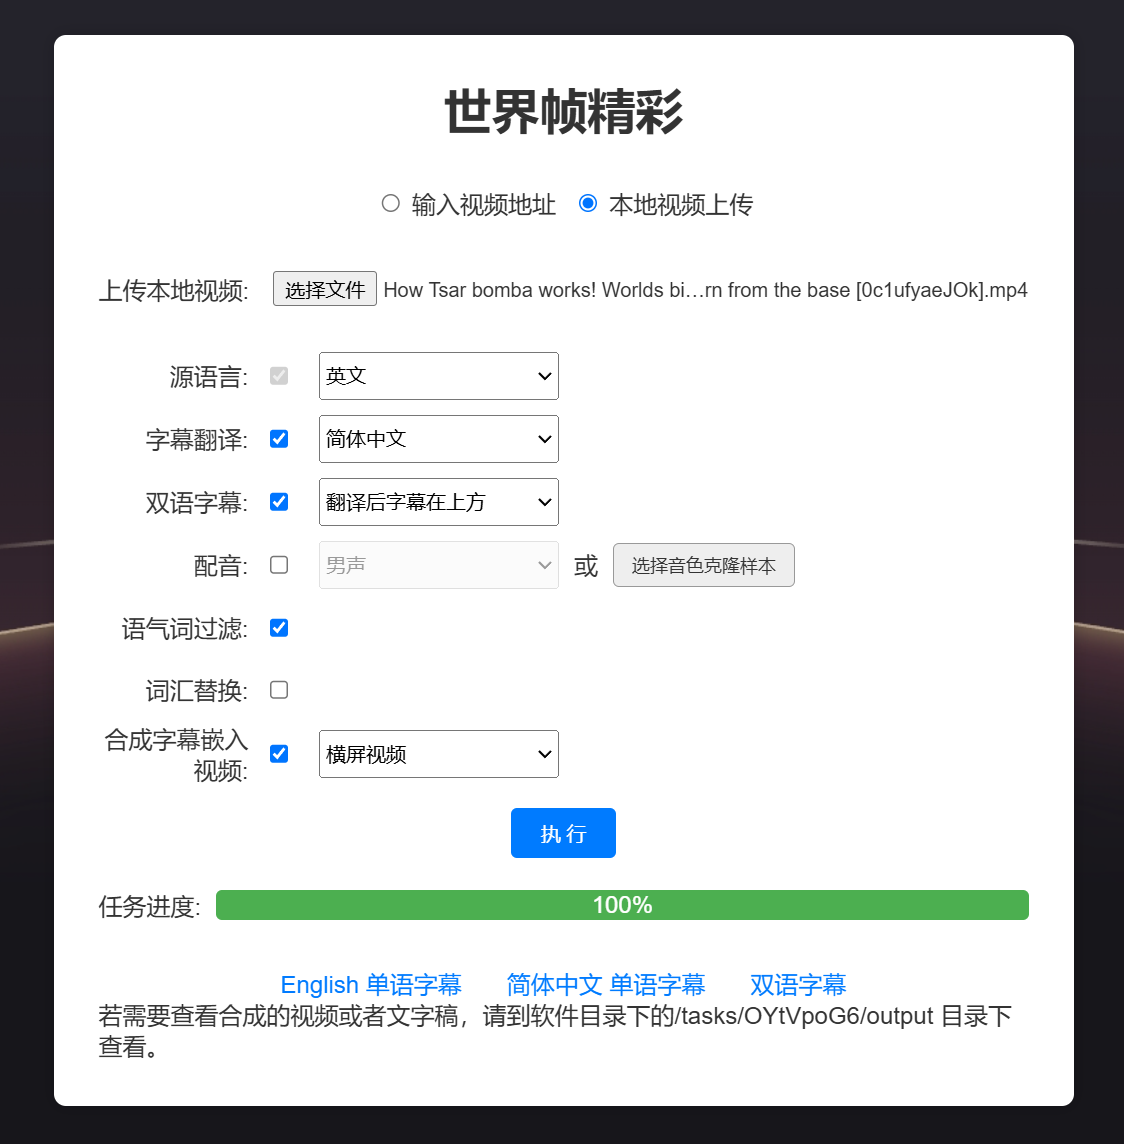
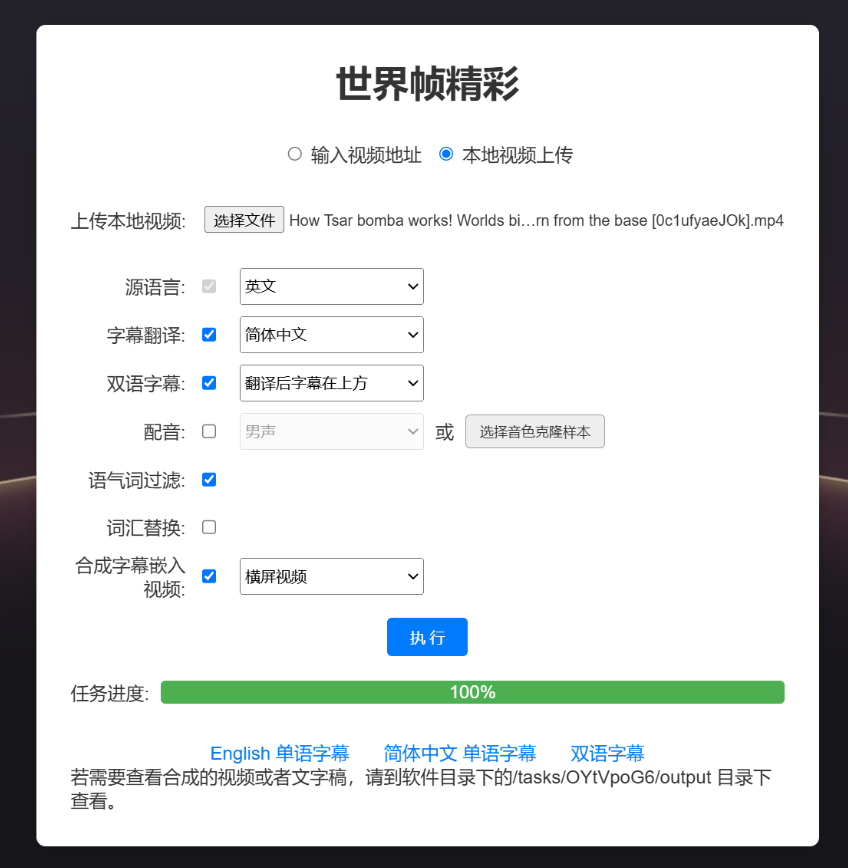
docs: update readme

diff --git a/docs/README_en.md b/docs/README_en.md
@@ -21,7 +21,7 @@ Krillin AI is a one-stop solution designed for users and developers seeking high
 🔄 **Custom Vocabulary Replacement**: Support one-click replacement of vocabulary to adapt to the language style of specific fields.  
 🌍 **Professional Translation**: The whole-paragraph translation engine ensures the consistency of context and semantic coherence.  
 🎙️ **Dubbing and Voice Cloning**: You can choose the default male or female voice tones to generate video reading dubbing for the translated content, or upload local audio samples to clone voice tones for dubbing.  
-📝 **Dubbing Alignment**: It can perform cross-language dubbing and also align with the original subtitles.  
+📝 **Dubbing Alignment**: It can perform cross-language dubbing and also align with the original subtitles.   
 🎬 **Video Composition**: With one click, compose horizontal and vertical videos with embedded subtitles. Subtitles that exceed the width limit will be processed automatically. 
 
 ## Language Support